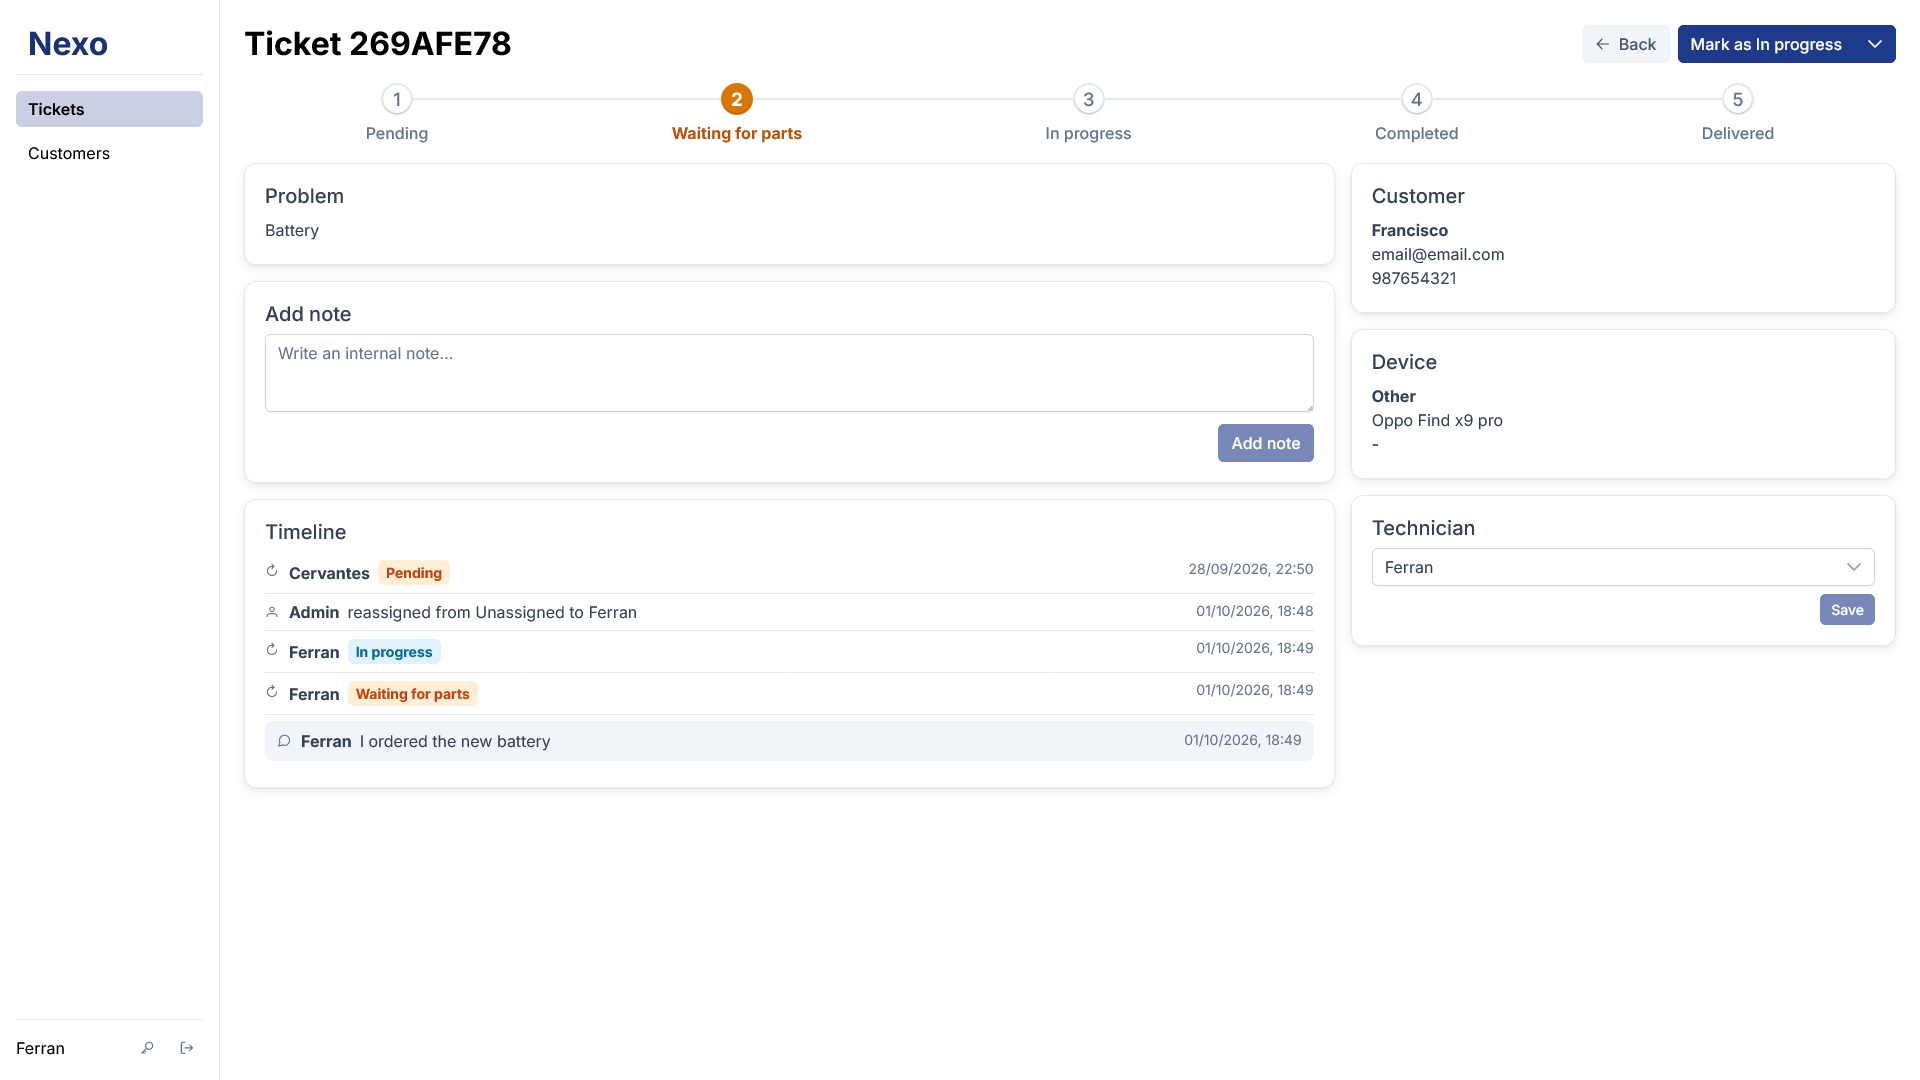
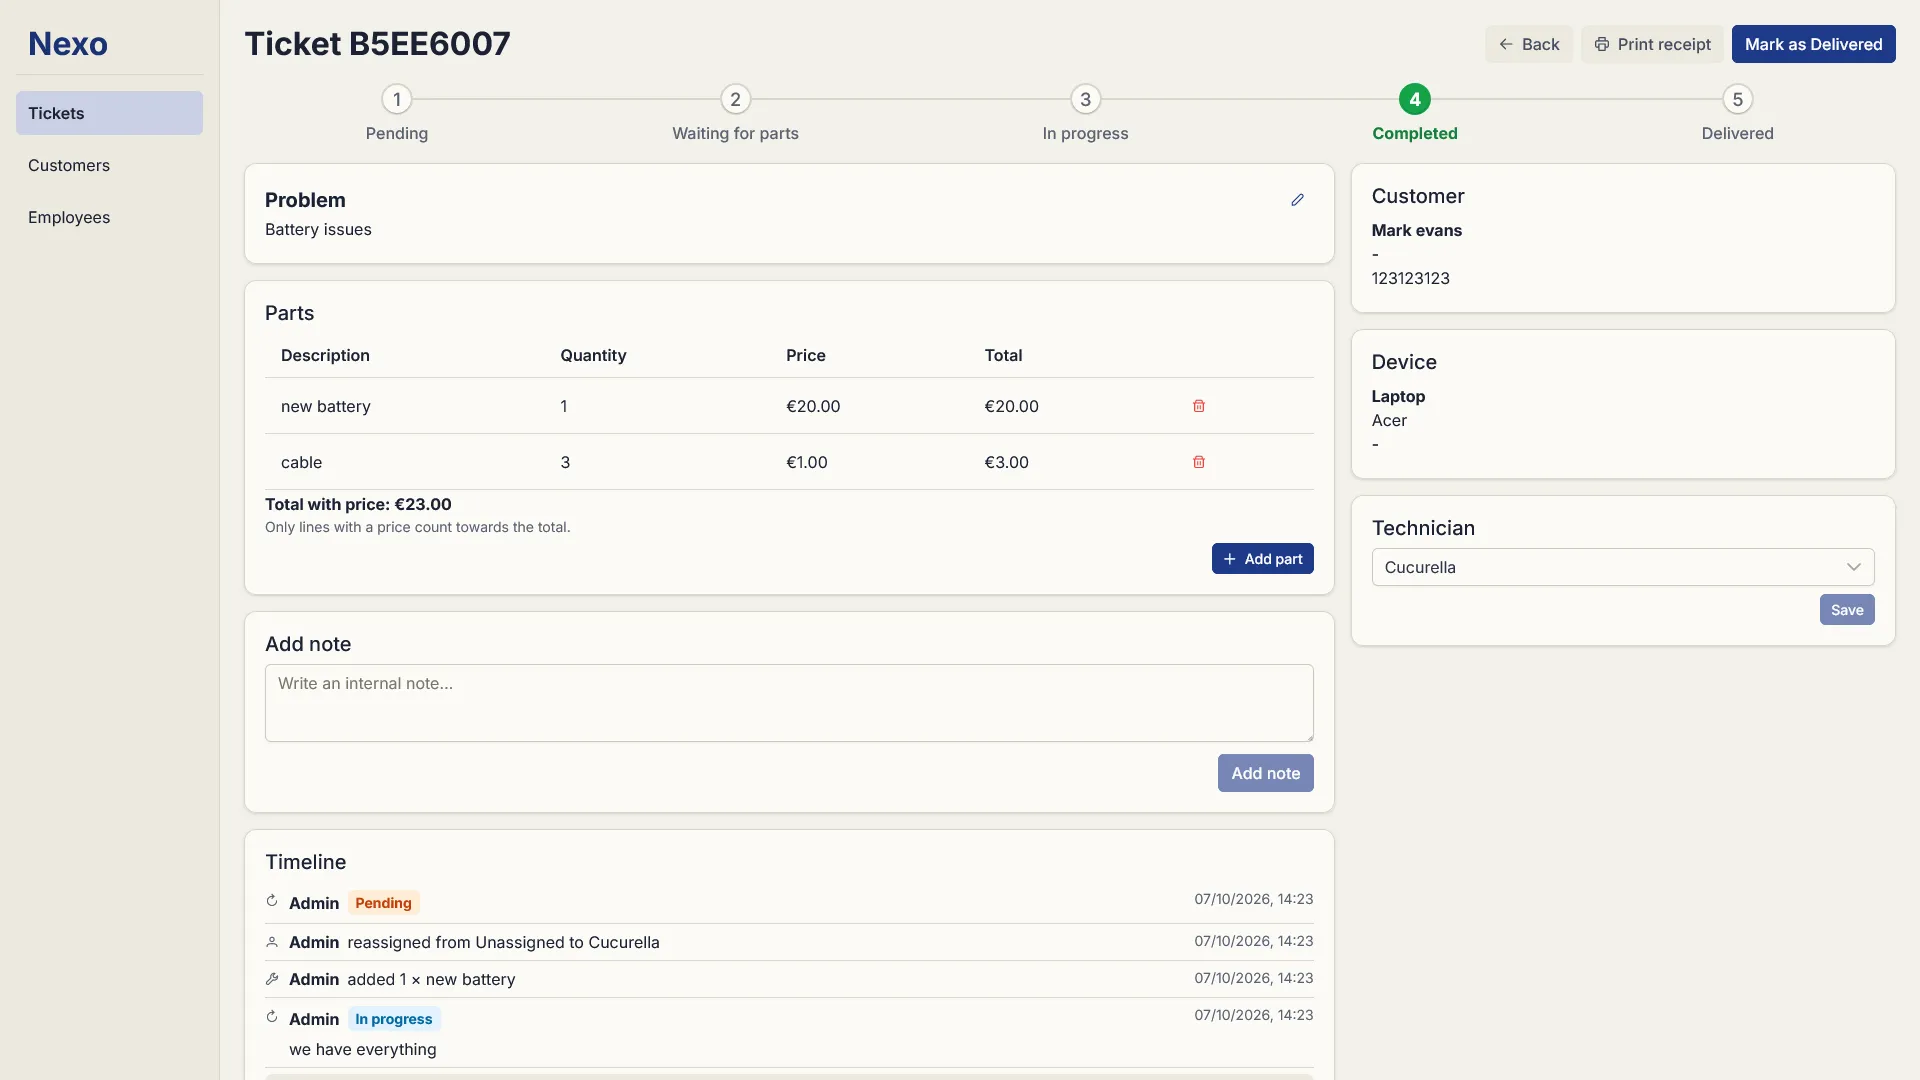
feat: update project image and minor fixes

diff --git a/src/app/i18n/translations.ts b/src/app/i18n/translations.ts
@@ -35,7 +35,7 @@ export const es = {
       computerVisionAimAssist: 'Computer Vision',
     },
     descriptions: {
-      quackCode: 'Entorno para practicar programación con un editor de código, un asistente inspirado en la técnica Rubber Duck Debugging y ejecución de pruebas. El asistente utiliza modelos de IA locales.',
+      quackCode: 'Entorno para practicar programación con un editor de código, un asistente inspirado en la técnica Rubber Duck Debugging y ejecución de pruebas. El asistente utiliza modelos de IA locales. Este proyecto fue mi TFG, que obtuvo una calificación de 9.3/10.',
       clashPoints: 'Juego de preguntas y respuestas para Android, desarrollado junto a un compañero, en el que la velocidad y la precisión determinan la puntuación y el ranking global.',
       timac: 'Web para comprar en una ferretería ficticia, desarrollada junto a dos compañeros. Construida con Angular e Ionic para poder utilizarla también como aplicación móvil.',
       nexoRepair: 'Sistema full stack para gestionar las reparaciones y el trabajo diario de un negocio de dispositivos electrónicos.',
@@ -146,7 +146,7 @@ export const en: typeof es = {
       computerVisionAimAssist: 'Computer Vision',
     },
     descriptions: {
-      quackCode: 'An environment for practising programming with a code editor, an assistant inspired by Rubber Duck Debugging, and test execution. The assistant uses local AI models.',
+      quackCode: 'An environment for practising programming with a code editor, an assistant inspired by Rubber Duck Debugging, and test execution. The assistant uses local AI models. This project was my final degree project and received a grade of 9.3/10.',
       clashPoints: 'An Android quiz game developed with a teammate, where speed and accuracy determine the score and global ranking.',
       timac: 'A website for buying products from a fictional hardware store, developed with two teammates. Built with Angular and Ionic so it can also be used as a mobile application.',
       nexoRepair: 'A full-stack system for managing repairs and the daily work of an electronic device business.',

diff --git a/src/app/components/skills/skills.ts b/src/app/components/skills/skills.ts
@@ -25,7 +25,7 @@ export class Skills {
     },
     {
       key: 'data',
-      skills: ['PostgreSQL', 'MySQL', 'SQLite', 'APIs REST', 'MVC'],
+      skills: ['PostgreSQL', 'MySQL', 'SQLite', 'APIs REST'],
     },
     {
       key: 'tools',

diff --git a/src/app/components/navbar/navbar.scss b/src/app/components/navbar/navbar.scss
@@ -108,7 +108,7 @@
 .menu-icon,
 .menu-icon::before,
 .menu-icon::after {
-	background: var(--color-ink);
+	background: currentColor;
 	display: block;
 	height: 1px;
 	width: 16px;
